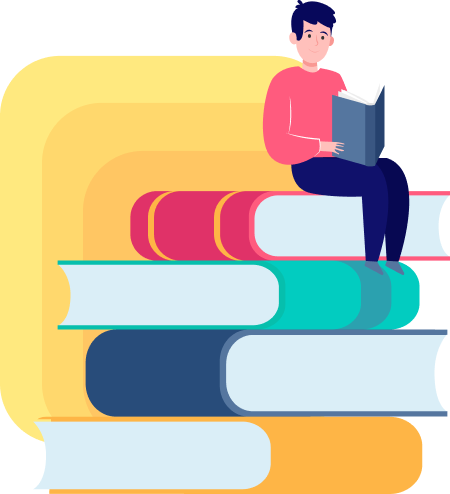
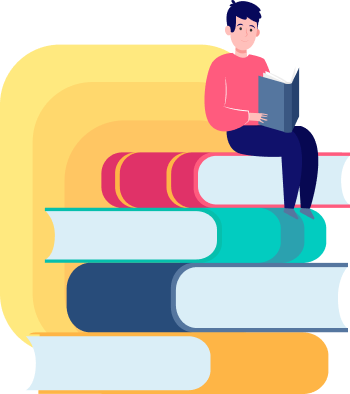
posisi content2/take-break

diff --git a/asset/css/style.css b/asset/css/style.css
@@ -65,41 +65,37 @@ header{
     color: #fff;
   }
 /* content 2 */
-  .content2{
-    margin: 50px;
+  .take-break{
+    margin-top: 3rem;
+    margin-bottom: 3rem;
   }
-  .content2 img{
-    padding: 41px;
+  .take-break img{
+    padding: 35px;
   }
-
-  .content2 .second_title{
-    padding: 41px;
-  }
-
-  .content2 h5{
+  .take-break .title{
     color: var(--main-color);
+    margin-top: 3rem;
+    margin-bottom: 0%;
   }
-  .content2 .btn-warning{
+  .take-break h1{
+    margin-bottom: 2rem;
+  }
+  .take-break p{
+    margin-bottom: 2rem;
+  }
+  .take-break .btn-warning{
     border-radius: 50px;
     color: #fff;
   }
-  .content2 h1{
-    font-weight: 700;
-  }
-  .content2 p{
+  .take-break p{
     text-align: justify;
-    margin-top: 25px;
     font-size: 20px;
-  }
-  .content2 a{
-    padding: 16px 30px;
-    margin-top: 30px;
   }
 /* content 2 */
 
 /* content 3 */
   .content3{
-  height: 80vh;
+  margin-top: 35px;
   }
   .content3 .title-once{
     margin-bottom: 10px;
@@ -122,7 +118,6 @@ header{
 
   /* gallery */
   #gallery{
-    min-height: 100vh;
     padding: 50px;
   }
 
@@ -339,9 +334,7 @@ header{
     margin-top: 55px;
   }
   
-  /* .image-index{
 
-  } */
 
 
   /* kontak */

diff --git a/index.html b/index.html
@@ -80,15 +80,15 @@
       </div>
     </section> -->
 
-    <section class="take-break mt-3">
+    <section class="take-break">
       <div class="container">
-        <div class="row align-items-center">
+        <div class="row align-items-center padding-tentang-kami">
           <div class="col-md-6">
-            <img src="asset/img/bg1a.png" alt="take-break" class="img-fluid" width="400px">
+            <img src="asset/img/bg1a.png" alt="take-break">
           </div>
-          <div class="col-md-6 align-items-center mt-5">
-            <p class="section-title" style="color : #FF5555">Tentang kami</p>
-            <h1 class="section-description mb-4">Sekolah Alam 
+          <div class="section-title col-md-6 align-items-center ">
+            <p class="title">Tentang kami</p>
+            <h1 class="section-description">Sekolah Alam 
               Insan Mulia Berkarya </h1>
               <p>Sekolah Kami merupakan sekolah informal yang dikelola untuk membantu anak mengembangkan bakat dan kemampuannya. Dengan memberikan kurikulum terbaik agar anak bisa memilih minatnya dan fokus mengembangkan minat tersebut. Sekolah 
                 ini didirikan sejak tahun 1989 dan terus berkembang</p>
